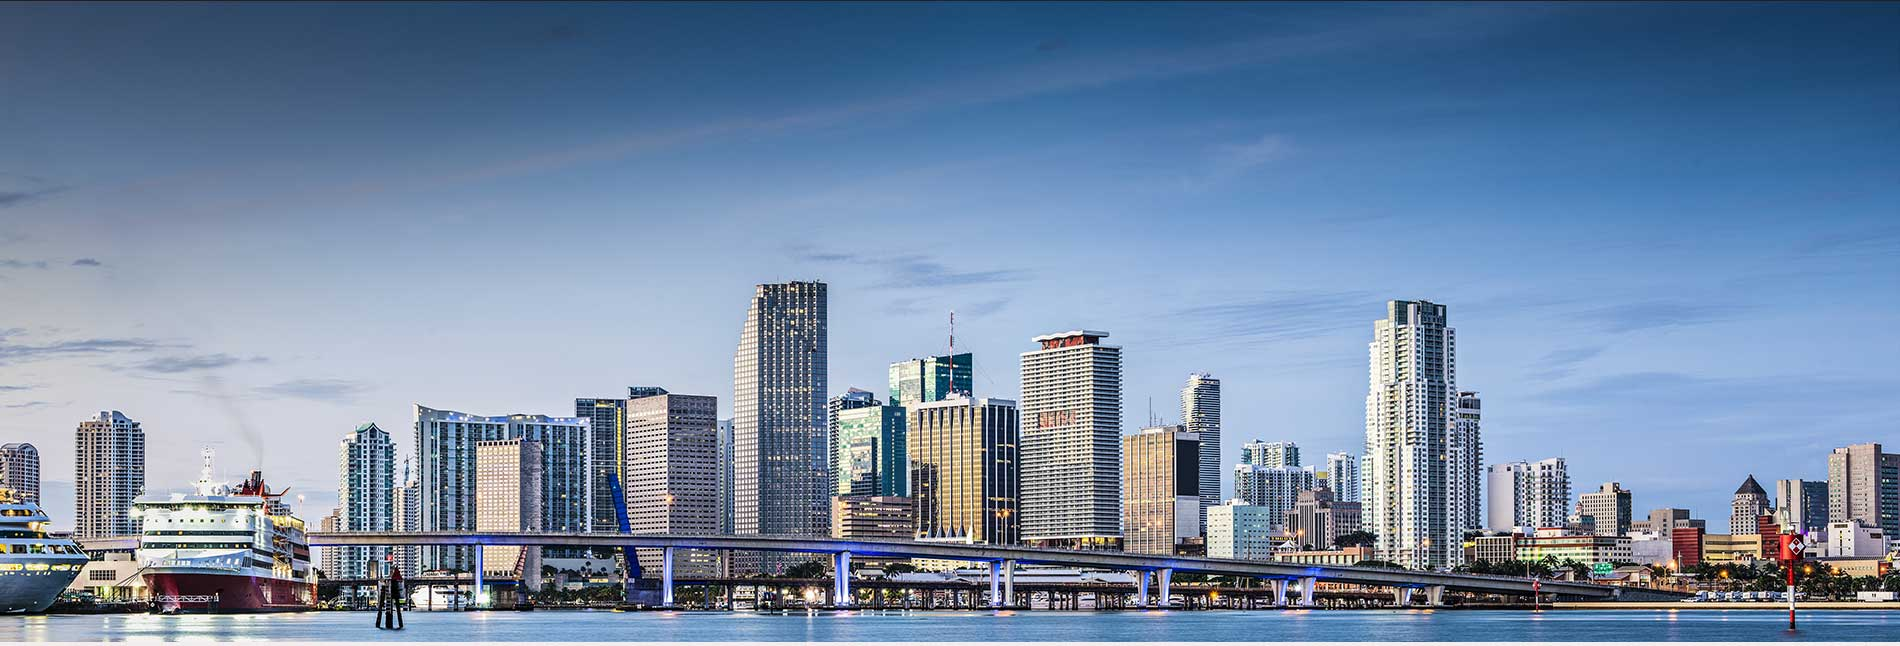
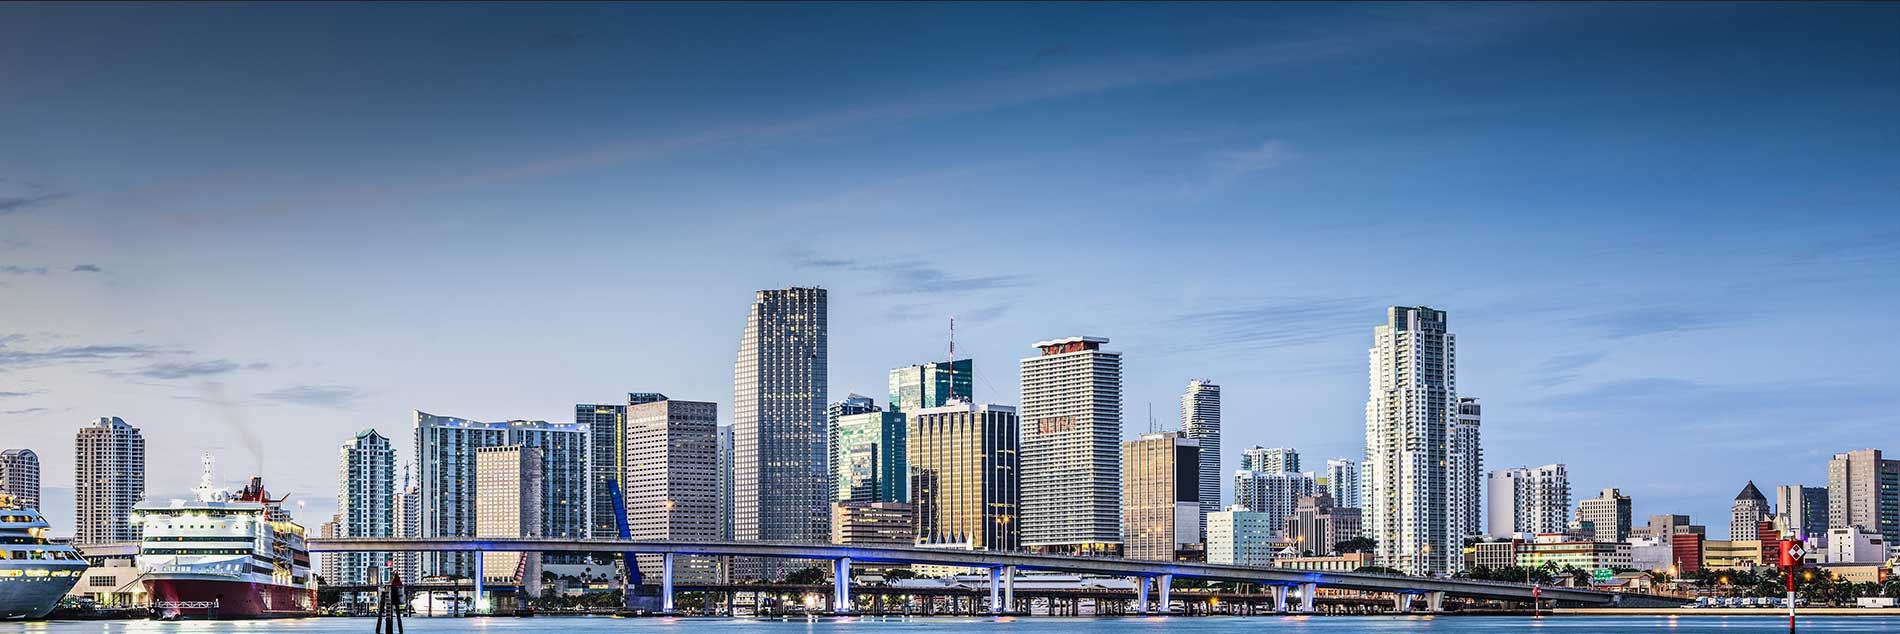
Fixing home page images

diff --git a/index.html b/index.html
@@ -46,7 +46,7 @@ title: Home
         </div>
     </div><!-- END item -->
     <div class="item">
-      <img src="{{ site.baseurl }}/img/banner3.png" class="img-responsive">
+      <img src="{{ site.baseurl }}/img/banner3.jpg" class="img-responsive">
       <div class="container">
             <div class="carousel-caption hidden-xs hidden-sm">
                 <div class="hero-text">
